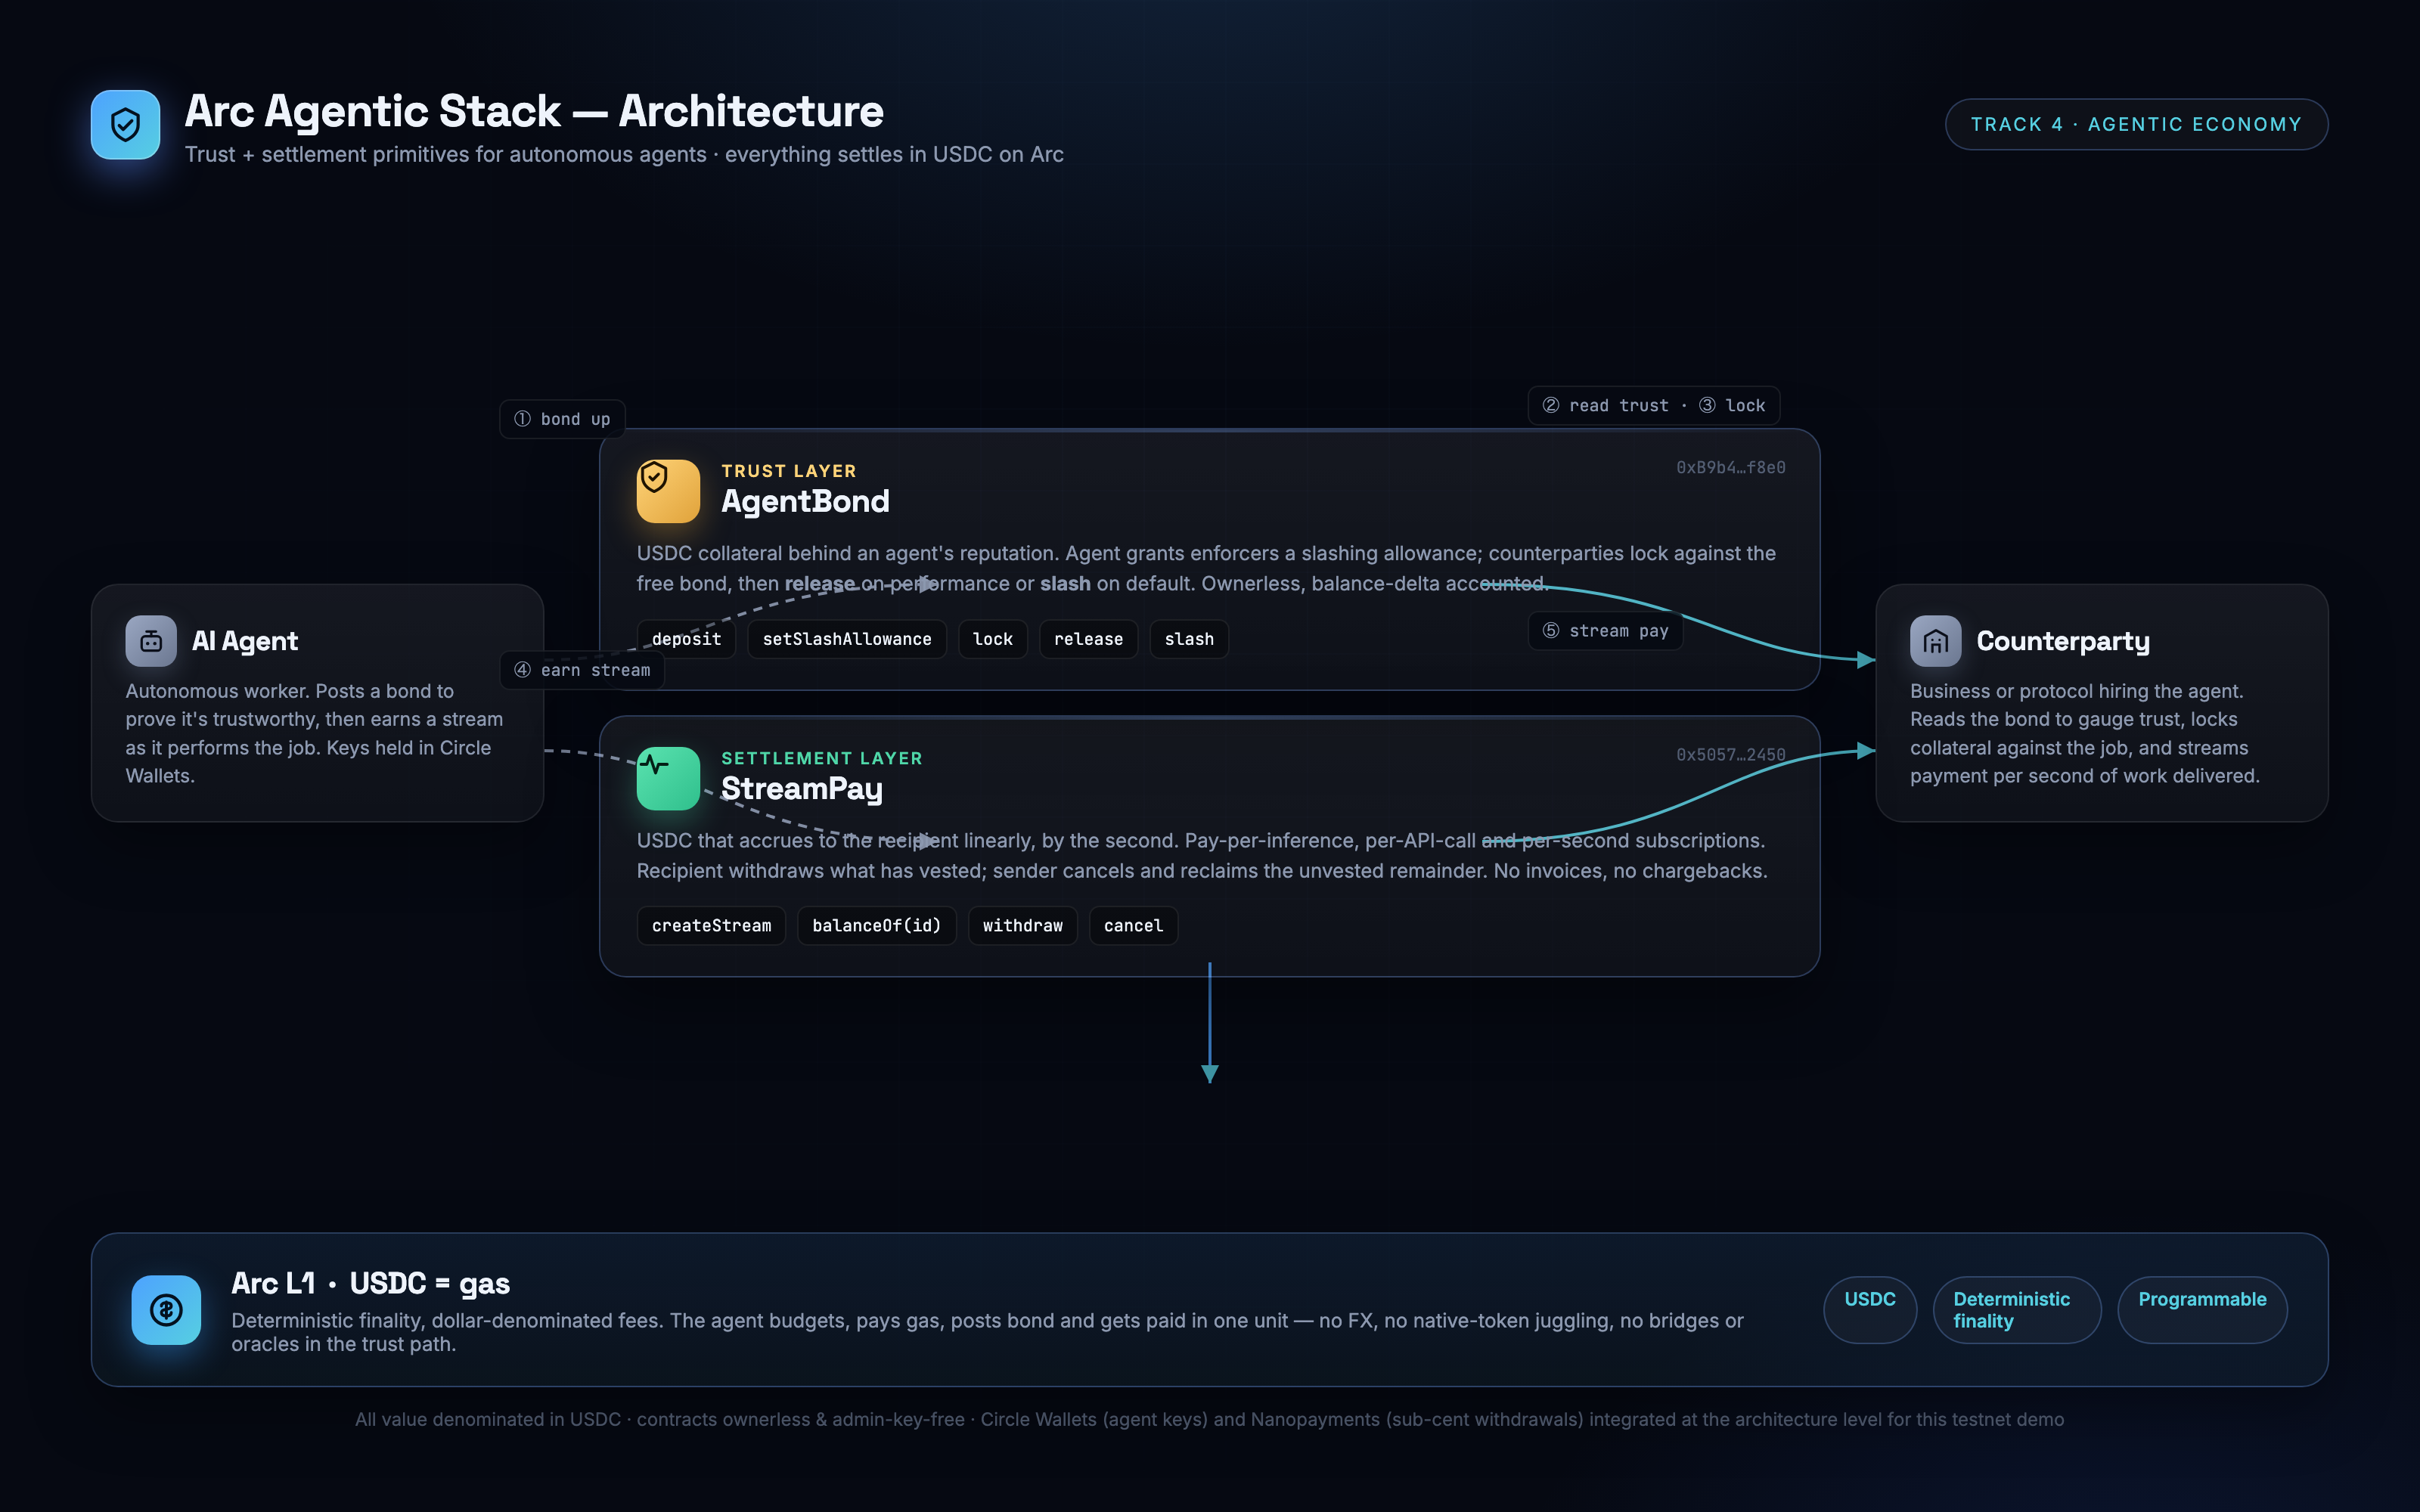
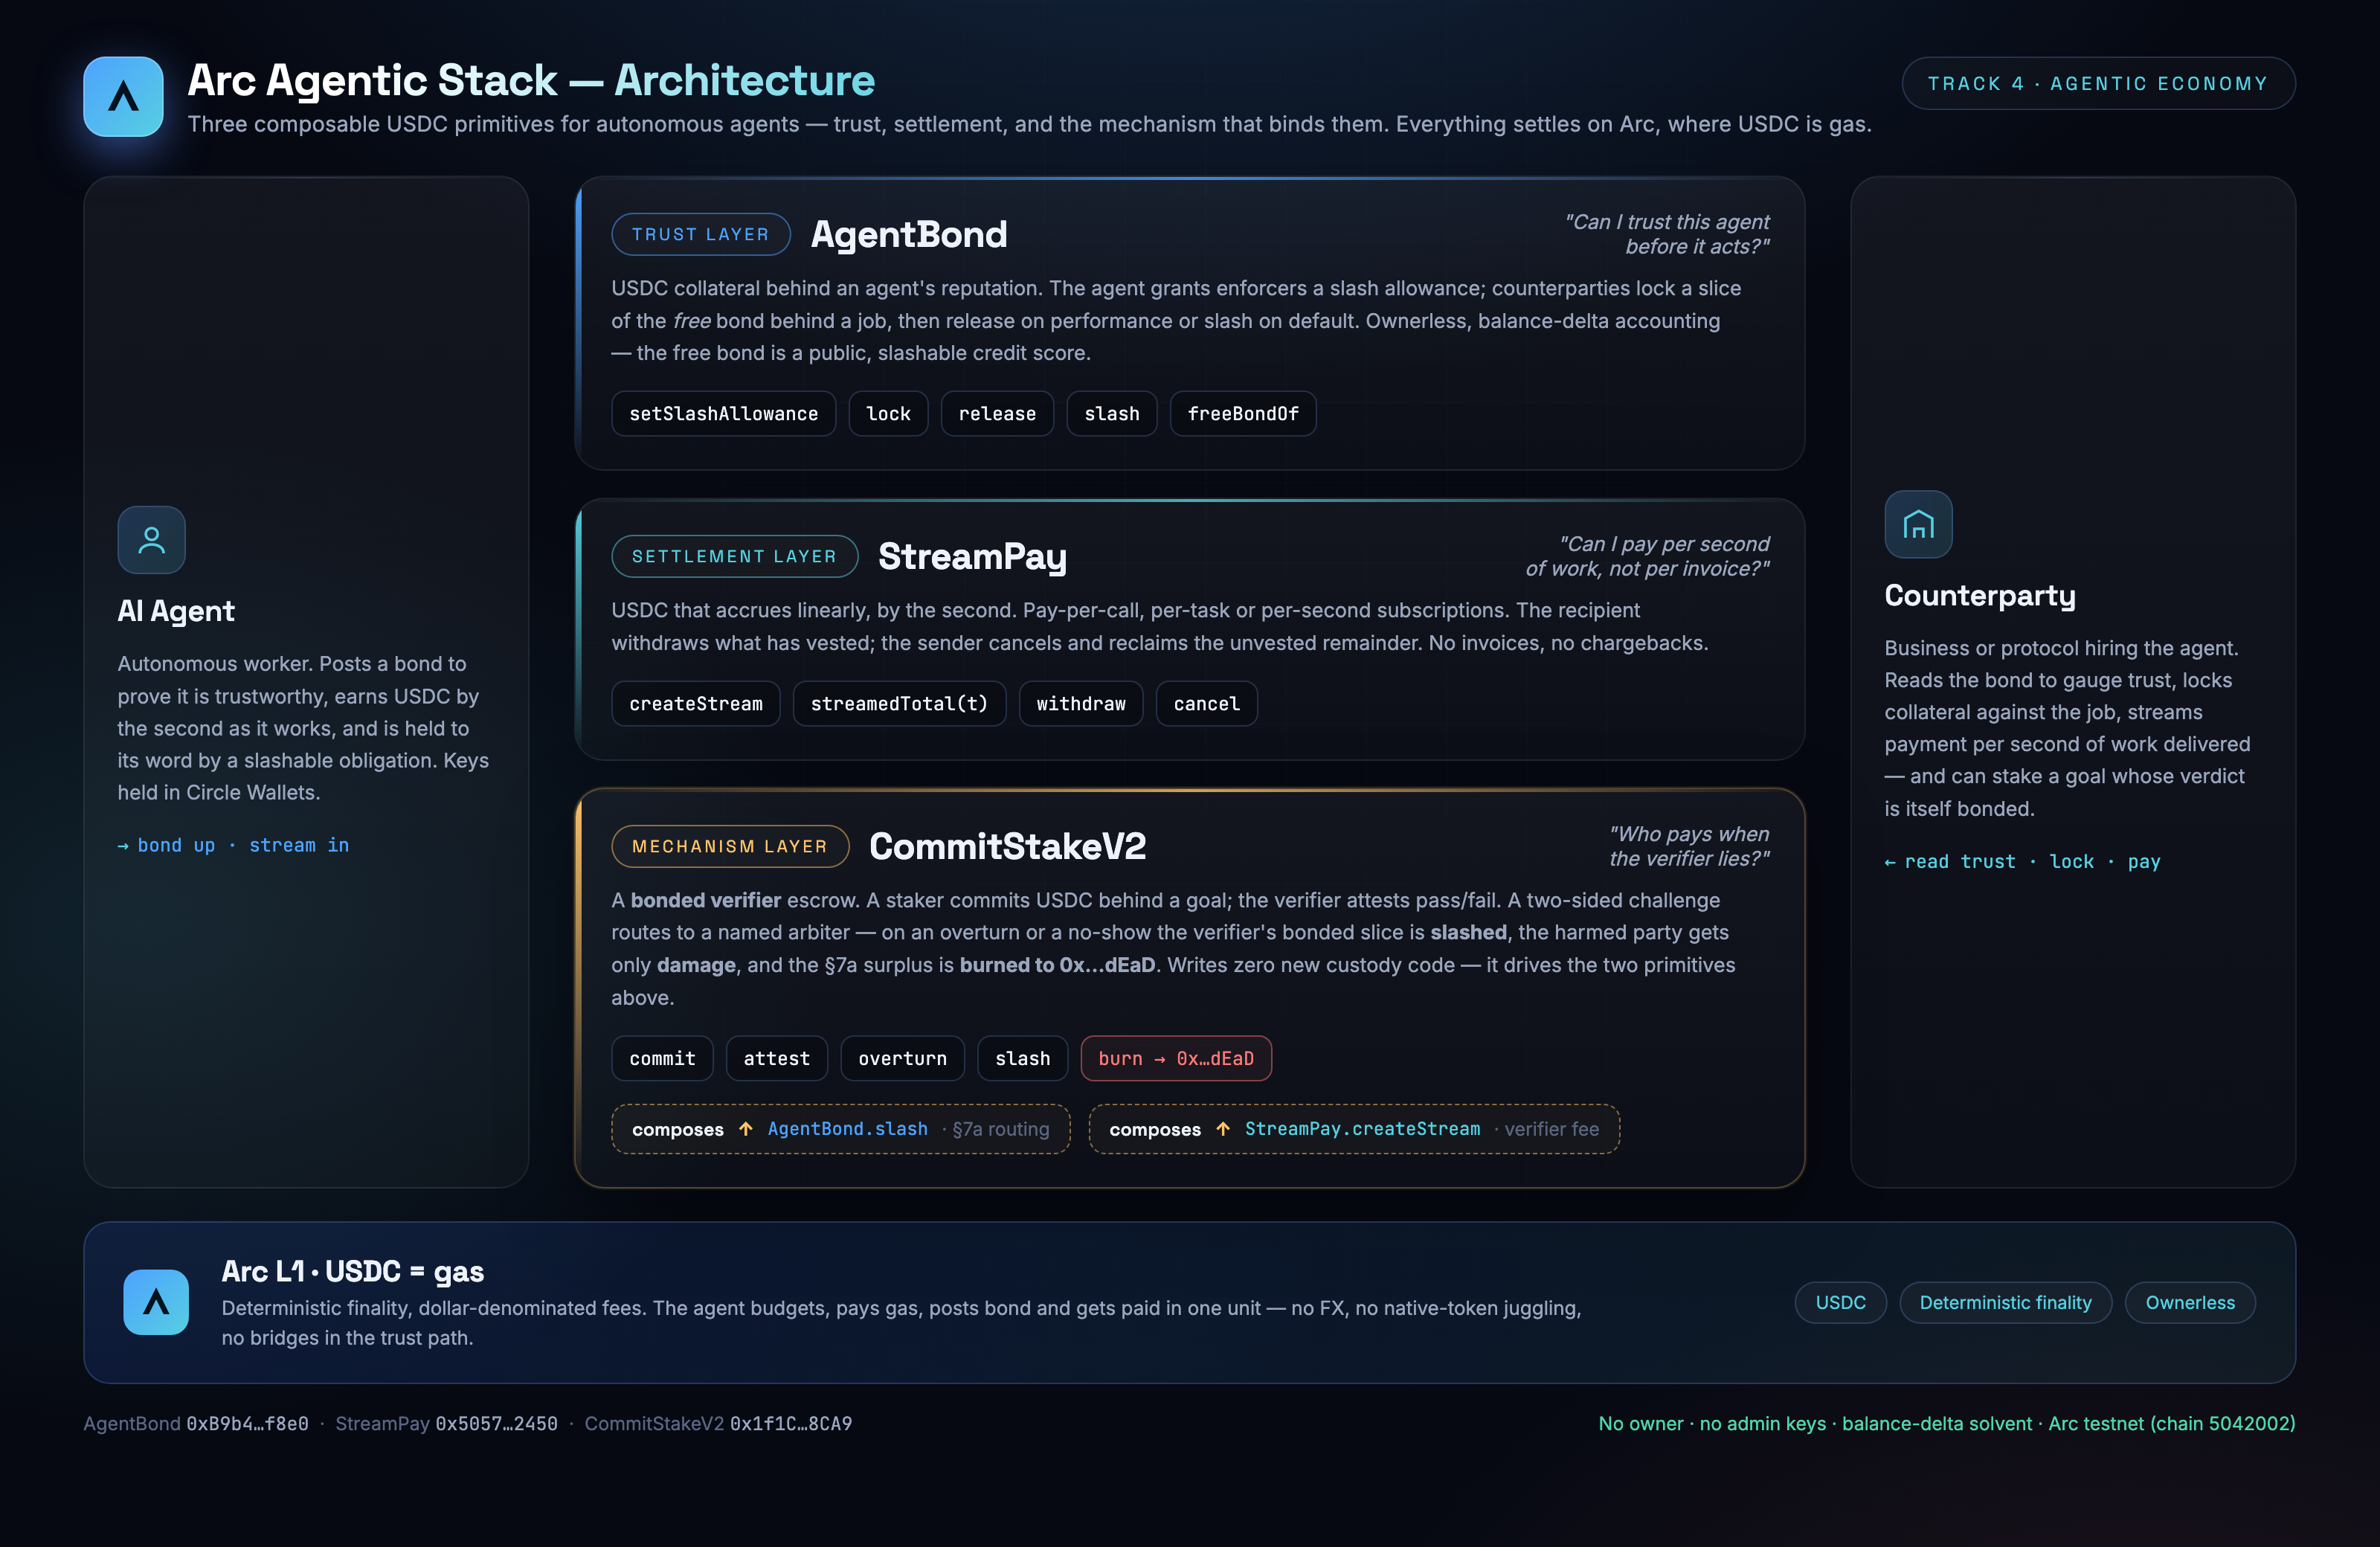
docs(architecture): add CommitStakeV2 Mechanism layer to the diagram (3-layer stack)
The diagram showed only the two primitives (Trust=AgentBond, Settlement=StreamPay)
but the README/stack is 3-layer. Adds the Mechanism layer — CommitStakeV2, 'Who pays
when the verifier lies?': bonded verifier, commit->attest->overturn->slash->burn,
surplus burned to 0x..dEaD, with composition arrows up to AgentBond.slash (7a routing)
and StreamPay.createStream (verifier fee). Footer contract addresses refreshed
(AgentBond/StreamPay/CommitStakeV2). Arc design language preserved (cyan/blue glass).
Adds architecture.src.html as the reproducible render source (headless Chrome, 2x).

🤖 Generated with [Claude Code](https://claude.com/claude-code)

diff --git a/architecture.src.html b/architecture.src.html
@@ -1,0 +1,172 @@
+<!DOCTYPE html>
+<html lang="en">
+<head>
+<meta charset="UTF-8" />
+<!-- Source for architecture.png. Render: headless Chrome --screenshot, window 1600x1040, scale 2 -> 3200x2080. -->
+<link href="https://fonts.googleapis.com/css2?family=Space+Grotesk:wght@400;500;600;700&family=Inter:wght@400;500;600;700&family=JetBrains+Mono:wght@400;500&display=swap" rel="stylesheet">
+<style>
+  :root{
+    --bg:#060912; --ink:#eef3fb; --muted:#9aa6bd; --faint:#5a6680;
+    --line:rgba(255,255,255,.07); --line2:rgba(122,170,255,.22);
+    --glass:rgba(255,255,255,.025); --glass2:rgba(255,255,255,.05);
+    --c1:#4da2ff; --c2:#56cfe1; --c3:#2f6bff; --bad:#ff7a7a; --warn:#ffc266; --good:#4fd6a8;
+  }
+  *{box-sizing:border-box;margin:0;padding:0}
+  body{width:1600px;height:1040px;background:var(--bg);color:var(--ink);
+    font-family:"Inter",system-ui,sans-serif;overflow:hidden;position:relative}
+  .aurora{position:absolute;inset:0;z-index:0;
+    background:
+      radial-gradient(1200px 640px at 50% -12%,rgba(77,162,255,.20),transparent 60%),
+      radial-gradient(900px 600px at 90% 115%,rgba(255,122,122,.10),transparent 62%),
+      radial-gradient(760px 560px at 6% 60%,rgba(86,207,225,.12),transparent 60%),
+      var(--bg);}
+  .grid-bg{position:absolute;inset:0;z-index:0;opacity:.5;
+    background-image:linear-gradient(rgba(122,170,255,.045) 1px,transparent 1px),linear-gradient(90deg,rgba(122,170,255,.045) 1px,transparent 1px);
+    background-size:54px 54px;-webkit-mask-image:radial-gradient(circle at 50% 32%,#000,transparent 78%);}
+  .wrap{position:relative;z-index:2;padding:38px 56px}
+
+  header{display:flex;align-items:flex-start;justify-content:space-between;margin-bottom:26px}
+  .brand{display:flex;align-items:center;gap:16px}
+  .logo{width:54px;height:54px;border-radius:15px;background:linear-gradient(135deg,var(--c1),var(--c2));
+    display:grid;place-items:center;box-shadow:0 10px 30px rgba(91,140,255,.5),inset 0 0 0 1px rgba(255,255,255,.25)}
+  .logo svg{width:28px;height:28px}
+  h1{font-family:"Space Grotesk";font-size:30px;letter-spacing:-.6px;font-weight:700;line-height:1.05;
+    background:linear-gradient(110deg,#fff 10%,var(--c2) 46%,var(--c1) 70%,#fff 95%);-webkit-background-clip:text;background-clip:text;-webkit-text-fill-color:transparent}
+  .brand small{display:block;color:var(--muted);font-size:14.5px;margin-top:5px;letter-spacing:.1px}
+  .track{font-family:"Space Grotesk";font-size:12.5px;letter-spacing:2.4px;text-transform:uppercase;color:var(--c2);
+    border:1px solid var(--line2);border-radius:999px;padding:9px 17px;background:var(--glass)}
+
+  .stage{display:grid;grid-template-columns:300px 1fr 300px;gap:30px;align-items:stretch}
+
+  .actor{background:linear-gradient(180deg,var(--glass2),var(--glass));border:1px solid var(--line);border-radius:20px;
+    padding:24px 22px;position:relative;display:flex;flex-direction:column;gap:12px;justify-content:center}
+  .actor::before{content:"";position:absolute;inset:0 0 auto 0;height:1px;background:linear-gradient(90deg,transparent,var(--line2),transparent)}
+  .actor .ic{width:46px;height:46px;border-radius:13px;display:grid;place-items:center;
+    background:linear-gradient(135deg,rgba(77,162,255,.22),rgba(86,207,225,.14));border:1px solid var(--line2)}
+  .actor .ic svg{width:24px;height:24px;stroke:var(--c2)}
+  .actor h3{font-family:"Space Grotesk";font-size:20px;font-weight:600;letter-spacing:-.2px}
+  .actor p{color:var(--muted);font-size:13.5px;line-height:1.6}
+
+  .layers{display:flex;flex-direction:column;gap:18px}
+  .layer{position:relative;border-radius:20px;padding:22px 24px;overflow:hidden;
+    background:linear-gradient(180deg,var(--glass2),var(--glass));border:1px solid var(--line)}
+  .layer::before{content:"";position:absolute;inset:0 0 auto 0;height:2px;background:linear-gradient(90deg,transparent,var(--accent),transparent);opacity:.8}
+  .layer::after{content:"";position:absolute;left:0;top:0;bottom:0;width:4px;background:linear-gradient(180deg,var(--accent),transparent)}
+  .lhead{display:flex;align-items:center;gap:13px;margin-bottom:9px}
+  .lbadge{font-family:"Space Grotesk";font-size:11.5px;letter-spacing:2px;text-transform:uppercase;color:var(--accent);
+    border:1px solid var(--accent-line);border-radius:999px;padding:6px 13px;background:rgba(255,255,255,.02);white-space:nowrap}
+  .lhead h2{font-family:"Space Grotesk";font-size:25px;font-weight:700;letter-spacing:-.4px}
+  .lhead .q{margin-left:auto;color:var(--muted);font-size:13.5px;font-style:italic;text-align:right}
+  .ldesc{color:var(--muted);font-size:13.5px;line-height:1.62;max-width:760px}
+  .chips{display:flex;gap:8px;flex-wrap:wrap;margin-top:14px}
+  .chip{font-family:"JetBrains Mono",monospace;font-size:12.5px;color:var(--ink);
+    border:1px solid var(--line2);border-radius:9px;padding:6px 11px;background:rgba(0,0,0,.25)}
+  .chip.hot{color:var(--bad);border-color:rgba(255,122,122,.45);background:rgba(255,122,122,.06)}
+
+  .trust{--accent:var(--c1);--accent-line:rgba(77,162,255,.5)}
+  .settle{--accent:var(--c2);--accent-line:rgba(86,207,225,.5)}
+  .mech{--accent:var(--warn);--accent-line:rgba(255,194,102,.5)}
+  .mech{border-color:rgba(255,194,102,.28);box-shadow:0 18px 50px rgba(0,0,0,.34),0 0 0 1px rgba(255,194,102,.10)}
+
+  /* composition: CommitStakeV2 drives the two primitives above it */
+  .compose{display:flex;gap:12px;margin-top:15px;flex-wrap:wrap}
+  .comp{display:flex;align-items:center;gap:9px;font-size:12.5px;color:var(--ink);
+    border:1px dashed var(--accent-line);border-radius:11px;padding:8px 13px;background:rgba(255,194,102,.04)}
+  .comp b{font-family:"Space Grotesk";font-weight:600}
+  .comp .arr{color:var(--warn);font-weight:700}
+  .comp .tgt{font-family:"JetBrains Mono",monospace;font-size:12px;color:var(--c2)}
+  .comp .tgt.blue{color:var(--c1)}
+
+  /* connector labels inside the agent / counterparty cards */
+  .flow{font-family:"JetBrains Mono",monospace;font-size:12.5px;color:var(--faint);
+    display:flex;align-items:center;gap:6px}
+  .flow .dot{color:var(--c2)}
+
+  .base{margin-top:22px;border-radius:18px;padding:20px 26px;display:flex;align-items:center;gap:22px;
+    background:linear-gradient(100deg,rgba(47,107,255,.14),rgba(86,207,225,.08));border:1px solid var(--line2);position:relative;overflow:hidden}
+  .base .ic{width:44px;height:44px;border-radius:12px;display:grid;place-items:center;background:linear-gradient(135deg,var(--c1),var(--c2));flex:0 0 auto}
+  .base .ic svg{width:24px;height:24px}
+  .base h3{font-family:"Space Grotesk";font-size:20px;font-weight:700;letter-spacing:-.2px}
+  .base p{color:var(--muted);font-size:13px;line-height:1.55;margin-top:2px;max-width:920px}
+  .base .tags{margin-left:auto;display:flex;gap:8px;flex:0 0 auto}
+  .base .tags span{font-size:12px;color:var(--c2);border:1px solid var(--line2);border-radius:999px;padding:6px 13px;background:rgba(255,255,255,.03);white-space:nowrap}
+
+  .foot{display:flex;justify-content:space-between;align-items:center;margin-top:18px;color:var(--faint);font-size:12.5px}
+  .foot code{font-family:"JetBrains Mono",monospace;color:var(--muted)}
+  .foot .ownerless{color:var(--good)}
+</style>
+</head>
+<body>
+<div class="aurora"></div><div class="grid-bg"></div>
+<div class="wrap">
+  <header>
+    <div class="brand">
+      <div class="logo"><svg viewBox="0 0 24 24" fill="none"><path d="M12 2L3 20h4l5-10 5 10h4L12 2z" fill="#04111f"/></svg></div>
+      <div>
+        <h1>Arc Agentic Stack — Architecture</h1>
+        <small>Three composable USDC primitives for autonomous agents — trust, settlement, and the mechanism that binds them. Everything settles on Arc, where USDC is gas.</small>
+      </div>
+    </div>
+    <div class="track">Track 4 · Agentic Economy</div>
+  </header>
+
+  <div class="stage">
+    <!-- LEFT: agent -->
+    <div class="actor">
+      <div class="ic"><svg viewBox="0 0 24 24" fill="none" stroke-width="1.8"><circle cx="12" cy="8" r="4"/><path d="M4 21c0-4 4-6 8-6s8 2 8 6"/></svg></div>
+      <h3>AI Agent</h3>
+      <p>Autonomous worker. Posts a bond to prove it is trustworthy, earns USDC by the second as it works, and is held to its word by a slashable obligation. Keys held in Circle Wallets.</p>
+      <div class="flow" style="margin-top:4px;color:var(--c1)"><span class="dot">→</span> bond up · stream in</div>
+    </div>
+
+    <!-- CENTER: three layers -->
+    <div class="layers">
+      <div class="layer trust">
+        <div class="lhead"><span class="lbadge">Trust layer</span><h2>AgentBond</h2><div class="q">"Can I trust this agent<br>before it acts?"</div></div>
+        <p class="ldesc">USDC collateral behind an agent's reputation. The agent grants enforcers a slash allowance; counterparties lock a slice of the <i>free</i> bond behind a job, then release on performance or slash on default. Ownerless, balance-delta accounting — the free bond is a public, slashable credit score.</p>
+        <div class="chips"><span class="chip">setSlashAllowance</span><span class="chip">lock</span><span class="chip">release</span><span class="chip">slash</span><span class="chip">freeBondOf</span></div>
+      </div>
+
+      <div class="layer settle">
+        <div class="lhead"><span class="lbadge">Settlement layer</span><h2>StreamPay</h2><div class="q">"Can I pay per second<br>of work, not per invoice?"</div></div>
+        <p class="ldesc">USDC that accrues linearly, by the second. Pay-per-call, per-task or per-second subscriptions. The recipient withdraws what has vested; the sender cancels and reclaims the unvested remainder. No invoices, no chargebacks.</p>
+        <div class="chips"><span class="chip">createStream</span><span class="chip">streamedTotal(t)</span><span class="chip">withdraw</span><span class="chip">cancel</span></div>
+      </div>
+
+      <div class="layer mech">
+        <div class="lhead"><span class="lbadge">Mechanism layer</span><h2>CommitStakeV2</h2><div class="q">"Who pays when<br>the verifier lies?"</div></div>
+        <p class="ldesc">A <b>bonded verifier</b> escrow. A staker commits USDC behind a goal; the verifier attests pass/fail. A two-sided challenge routes to a named arbiter — on an overturn or a no-show the verifier's bonded slice is <b>slashed</b>, the harmed party gets only <b>damage</b>, and the §7a surplus is <b>burned to 0x…dEaD</b>. Writes zero new custody code — it drives the two primitives above.</p>
+        <div class="chips"><span class="chip">commit</span><span class="chip">attest</span><span class="chip">overturn</span><span class="chip">slash</span><span class="chip hot">burn → 0x…dEaD</span></div>
+        <div class="compose">
+          <div class="comp"><b>composes</b> <span class="arr">↑</span> <span class="tgt blue">AgentBond.slash</span> <span style="color:var(--faint)">· §7a routing</span></div>
+          <div class="comp"><b>composes</b> <span class="arr">↑</span> <span class="tgt">StreamPay.createStream</span> <span style="color:var(--faint)">· verifier fee</span></div>
+        </div>
+      </div>
+    </div>
+
+    <!-- RIGHT: counterparty -->
+    <div class="actor">
+      <div class="ic"><svg viewBox="0 0 24 24" fill="none" stroke-width="1.8"><path d="M3 21V8l9-5 9 5v13"/><path d="M9 21v-6h6v6"/></svg></div>
+      <h3>Counterparty</h3>
+      <p>Business or protocol hiring the agent. Reads the bond to gauge trust, locks collateral against the job, streams payment per second of work delivered — and can stake a goal whose verdict is itself bonded.</p>
+      <div class="flow" style="margin-top:4px;color:var(--c2)"><span class="dot">←</span> read trust · lock · pay</div>
+    </div>
+  </div>
+
+  <!-- BASE: Arc L1 -->
+  <div class="base">
+    <div class="ic"><svg viewBox="0 0 24 24" fill="none"><path d="M12 2L3 20h4l5-10 5 10h4L12 2z" fill="#04111f"/></svg></div>
+    <div>
+      <h3>Arc L1 · USDC = gas</h3>
+      <p>Deterministic finality, dollar-denominated fees. The agent budgets, pays gas, posts bond and gets paid in one unit — no FX, no native-token juggling, no bridges in the trust path.</p>
+    </div>
+    <div class="tags"><span>USDC</span><span>Deterministic finality</span><span>Ownerless</span></div>
+  </div>
+
+  <div class="foot">
+    <div>AgentBond <code>0xB9b4…f8e0</code> &nbsp;·&nbsp; StreamPay <code>0x5057…2450</code> &nbsp;·&nbsp; CommitStakeV2 <code>0x1f1C…8CA9</code></div>
+    <div class="ownerless">No owner · no admin keys · balance-delta solvent · Arc testnet (chain 5042002)</div>
+  </div>
+</div>
+</body>
+</html>